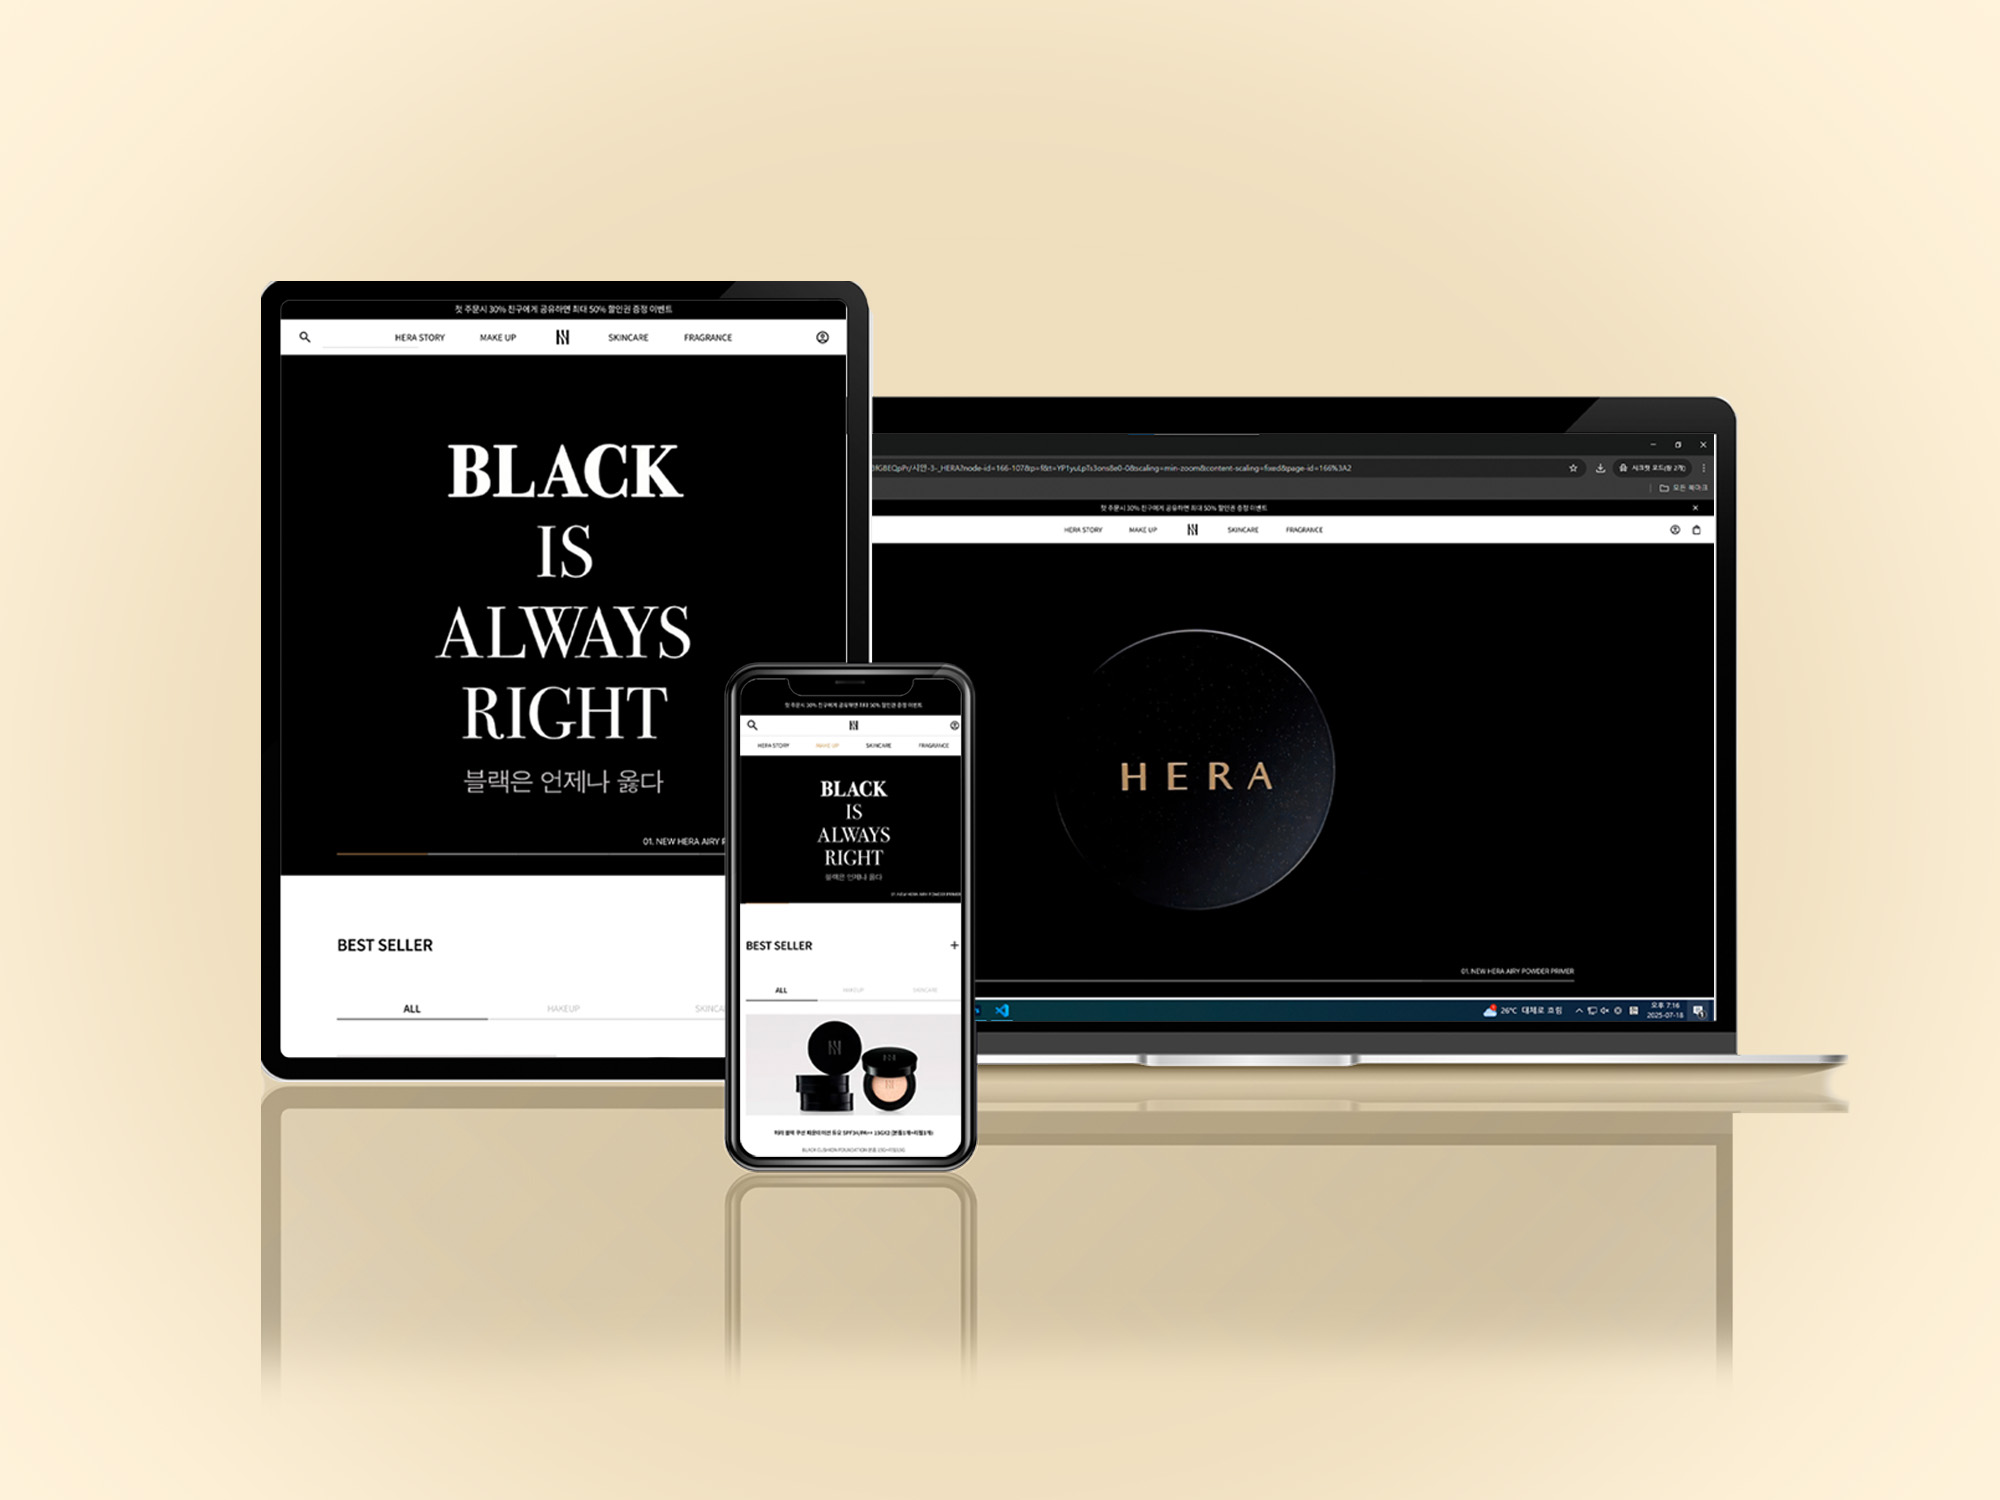
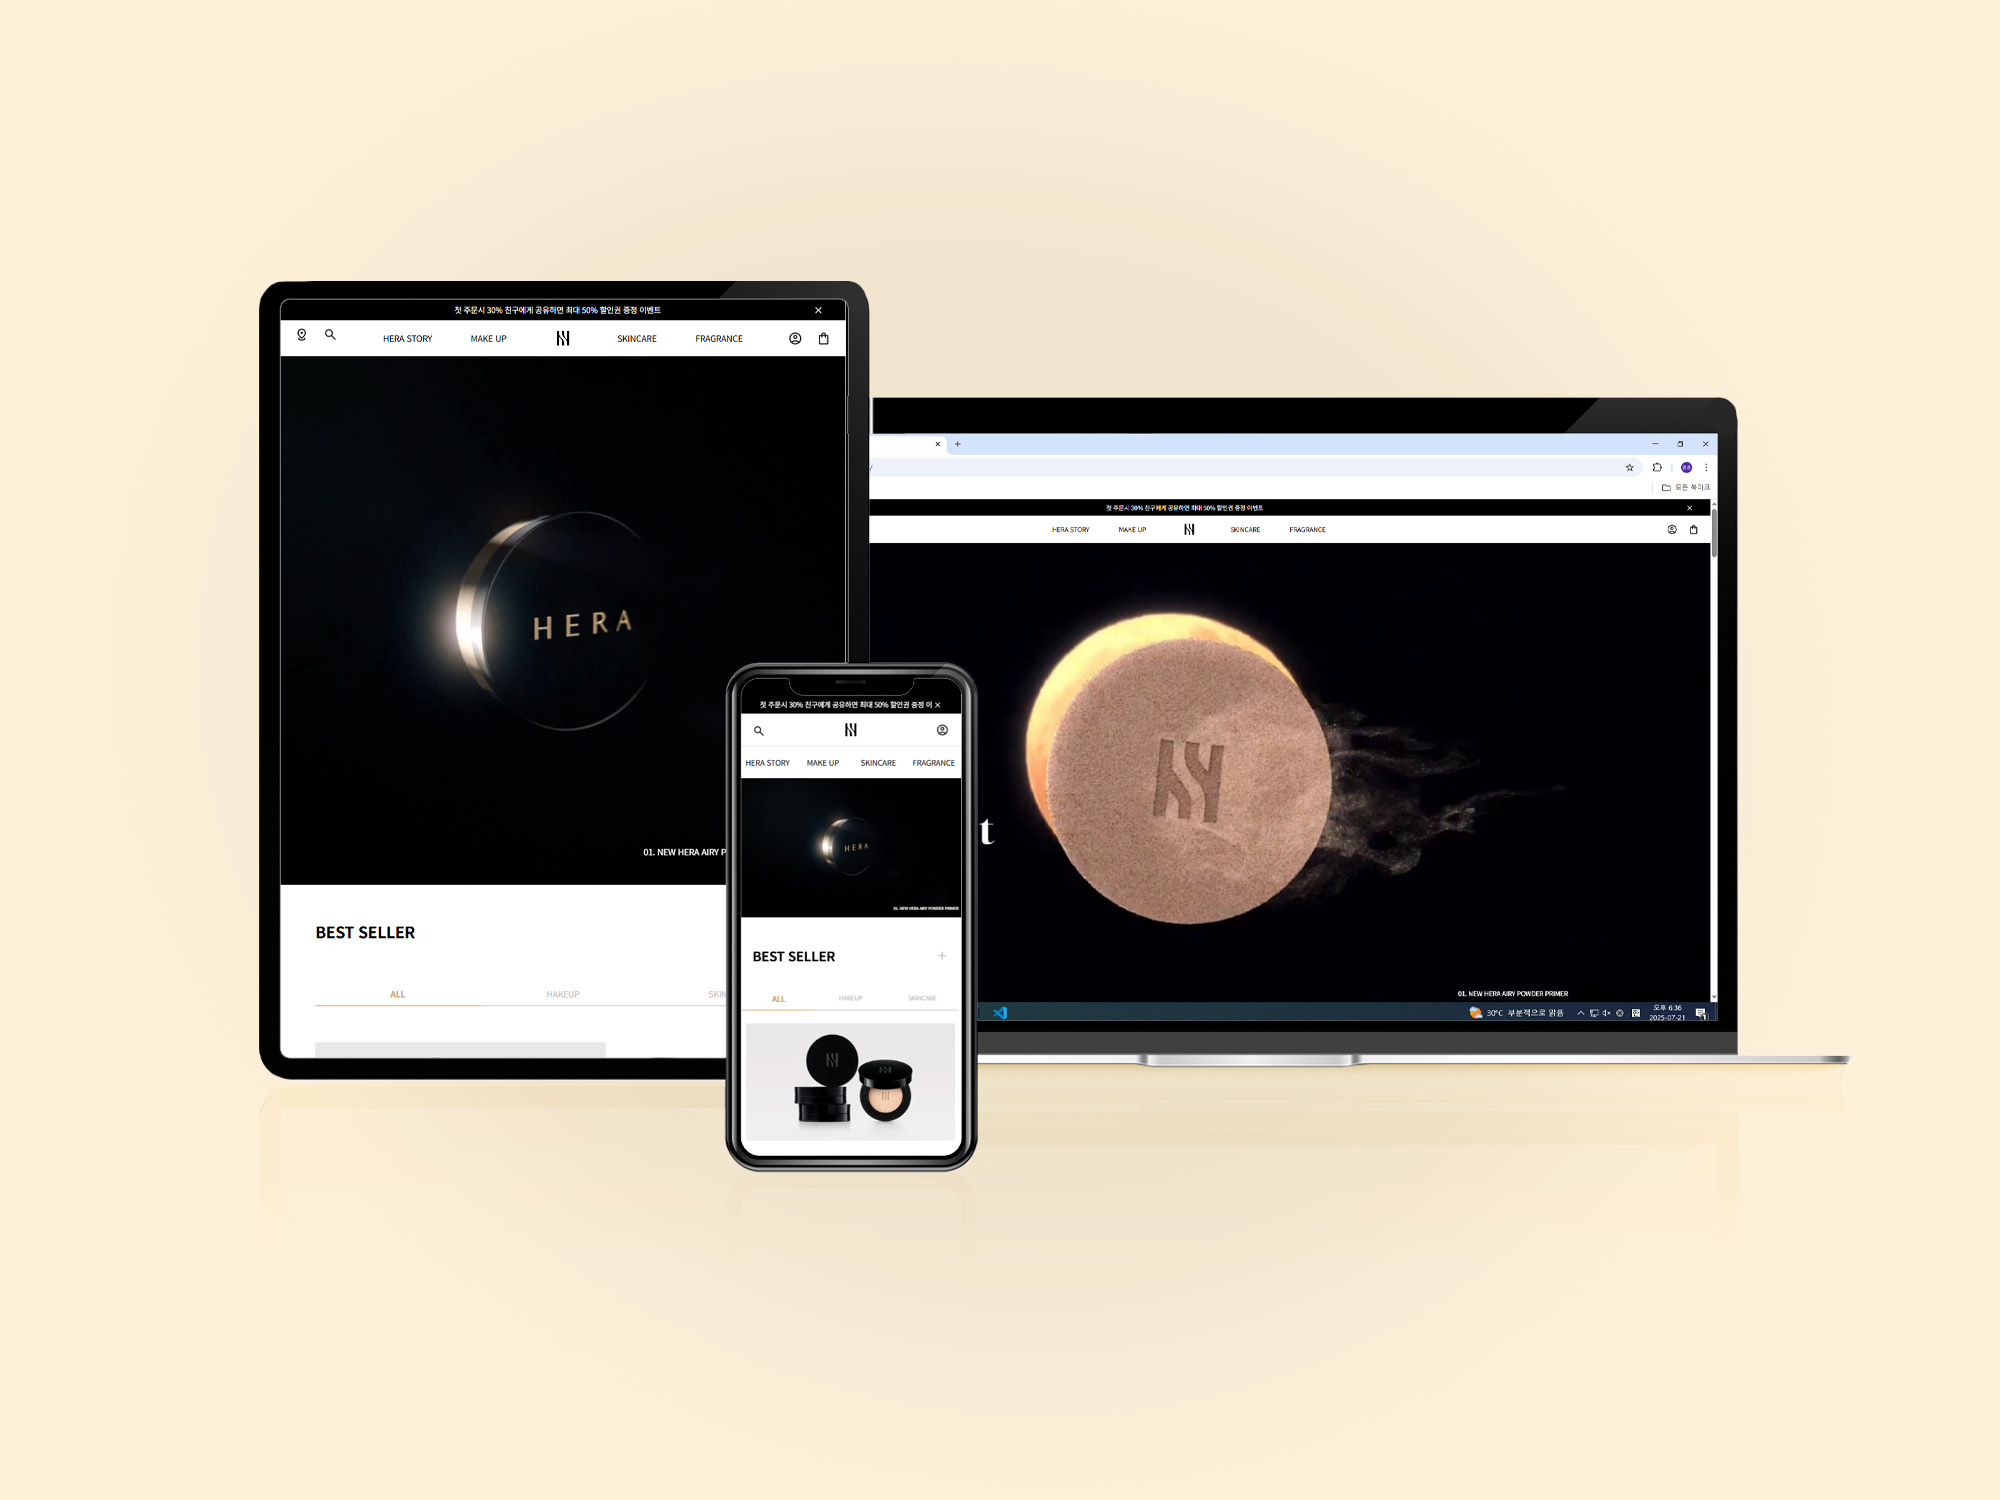
프로젝트_렌딩페이지 추가

diff --git a/style/index.css b/style/index.css
@@ -151,7 +151,7 @@ font-family: "Bebas Neue"; font-size: 12rem; color: #00D6FF;
     margin-right: 0px; background-color: #F8F8F8; color: #888; border: 1px solid #F8F8F8;
 }
 .responsive_project .swiper-slide .container .responsive_project_text .btn_box>a:last-child:hover,
-.responsive_project .swiper-slide .container .responsive_project_text .btn_box>a:nth-child(3)
+.responsive_project .swiper-slide .container .responsive_project_text .btn_box>a:nth-child(3):hover
 {
     background-color: #888; color: #fff; border: 1px solid #888;
 }
@@ -160,7 +160,7 @@ font-family: "Bebas Neue"; font-size: 12rem; color: #00D6FF;
 .responsive_project .marshall .container .responsive_project_img p{background: url(../images/marshall.jpg) center/cover;}
 .responsive_project .hera .container .responsive_project_img p{background: url(../images/hera.jpg) center/cover;}
 .responsive_project .whitegown .container .responsive_project_img p{background: url(../images/whitegown.jpg) center/cover;}
-/*.responsive_project .landingPage .container .responsive_project_img p{랜딩페이지 background-color: blue;}*/
+.responsive_project .landing_page .container .responsive_project_img p{background: url(../images/landing_page.jpg) center/cover;}
 /* ==================  responsive_project : e */ 
 /* ==================  Product_LandingPage : s */ 
 .product_landingPage{width: 100%;}
@@ -177,7 +177,7 @@ font-family: "Bebas Neue"; font-size: 12rem; color: #00D6FF;
 .product_landingPage .container .swiper_box .swiper .swiper-wrapper{transition-timing-function: linear;}
 .product_landingPage .container .swiper_box .swiper .swiper-slide img{ transform: scale(1)}
 .product_landingPage .container .swiper_box .swiper .swiper-slide{
-    cursor: pointer;/* 마우스 올리면 손가락아이콘이 나옴 */
+    cursor: pointer;/* 마우스 올리면 손가락아이콘이 나온다 */
     transition: transform 0.3s; overflow: hidden;
 }
 .product_landingPage .container .swiper_box .swiper .swiper-slide:hover img{transform: scale(1.009)}

diff --git a/index.html b/index.html
@@ -215,7 +215,7 @@
                                     <h2>project</h2>
                                     <div class="textbox">
                                         <ul class="rp_text">
-                                            <li>Landing Page _ 멜론 ::</li>
+                                            <li>LANDING PAGE _ 멜론 ::</li>
                                             <li>멜론의 렌딩페이지 제작</li>
                                         </ul>
                                         <ul class="text_details">
@@ -225,9 +225,8 @@
                                             <li>페이지 :: <span>렌딩페이지 _ 반응형</span></li>
                                         </ul>
                                         <div class="btn_box">
-                                            <a href="#" target="_blank">기획서</a>
-                                            <a href="#" target="_blank">프로토타입</a>
-                                            <a href="#" target="_blank">원본사이트</a>
+                                            <a href="https://sungeun95.github.io/landing_page/" target="_blank">프로토타입</a>
+                                            <a href="https://www.figma.com/proto/dmxwn4HRZIHEbArk0gKufW/%EC%B5%9C%EC%84%B1%EC%9D%80_%EB%9E%9C%EB%94%A9-%ED%8E%98%EC%9D%B4%EC%A7%80?node-id=48-3&p=f&t=5qcPDVB4CBbOl6Od-0&scaling=min-zoom&content-scaling=fixed&page-id=48%3A2" target="_blank">피그마</a>
                                         </div>
                                     </div>
                                 </div>

diff --git a/scripts/index.js b/scripts/index.js
@@ -7,10 +7,10 @@ const wrap = new Swiper('#wrap',{
 //프로젝트 슬라이드
 const projevt1 = new Swiper('#project_swiper',{
     loop:true,/* 반복 */
-/*     autoplay:{
+    autoplay:{
 	    delay:3500,
         disableOnInteraction:false,
-    }, */
+    },
 })
 
 
